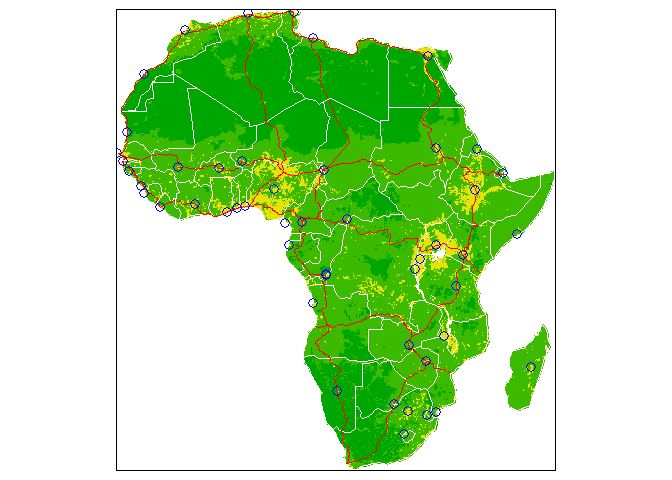
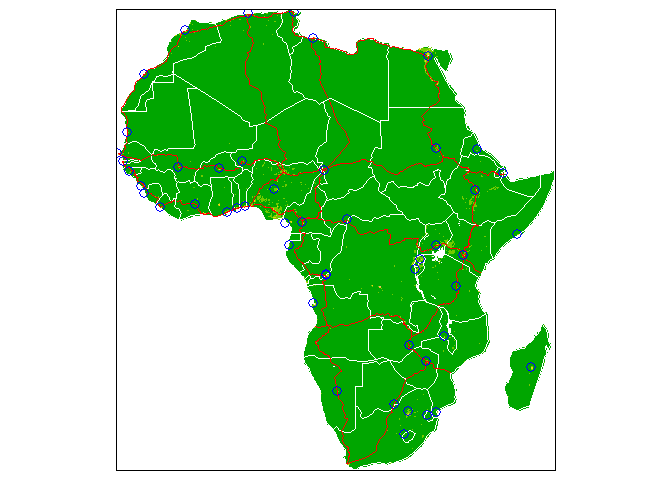
change tmap style, add view mode comment

diff --git a/README.md b/README.md
@@ -50,9 +50,11 @@ library(afrilearndata)
 # install.packages("tmap") # if not already installed
 library(tmap)
 
+# tmap_mode("view") to set to tmap interactive viewing mode
+# TODO check why capitals symbols are filled in interactive mode
 
 tm_shape(rastafriwpop) +
-    tm_raster("ppp_2020_1km_Aggregated", palette = terrain.colors(10), style="log10_pretty") +
+    tm_raster("ppp_2020_1km_Aggregated", palette = terrain.colors(10), style="fisher") + #style="log10_pretty") +
 tm_shape(sfafricountries) +
     tm_borders("white", lwd = .5) +
     #tm_text("iso_a3", size = "AREA") +
